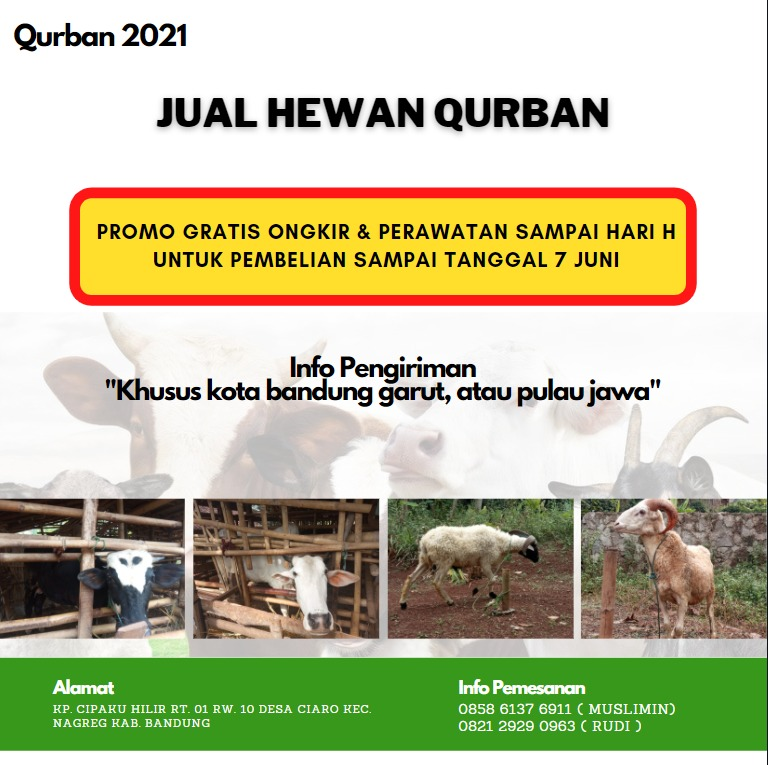
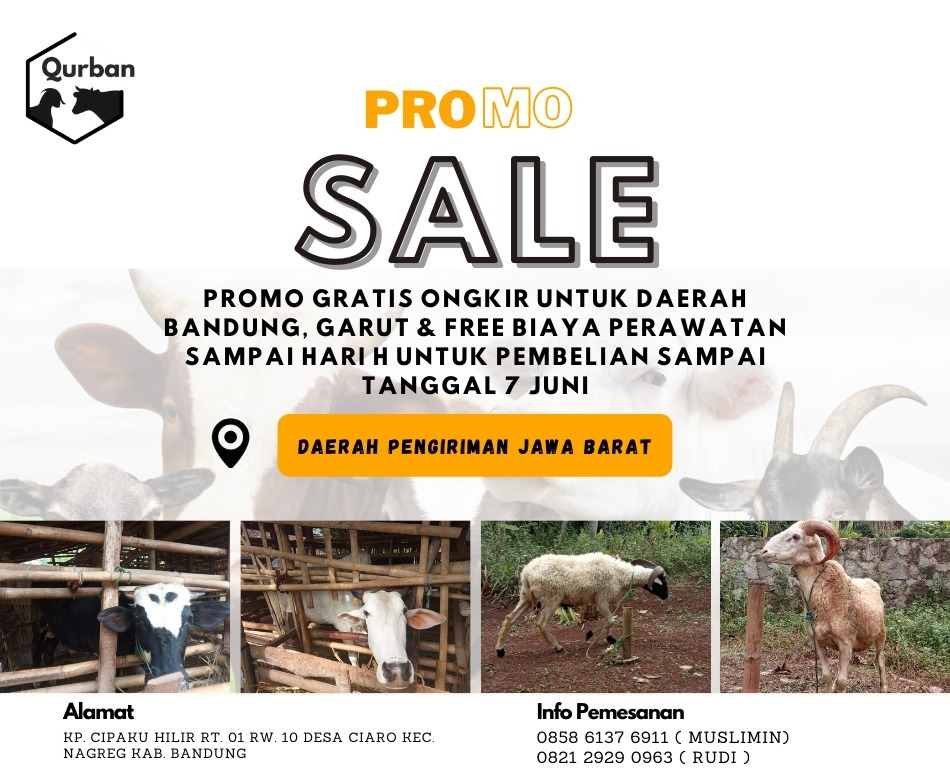
update discount and contact

diff --git a/index.html b/index.html
@@ -241,9 +241,8 @@
                                             <i class="lni-phone-handset"></i>
                                         </div>
                                         <div class="info-content">
-                                            <p>+6282129290963 (RUDI)</p>
-                                            <p>+6282129290963 (MUSLIMIN)</p>
-                                            <p>+6282129290963 (NURJAMAN)</p>
+                                            <p>+6282129290963 (RUDI) <a href="https://wa.link/qv3m8k" target="_blank">Langsung Tanya</a></p>
+                                            <p>+6281224744705 (NURJAMAN) <a href="https://wa.link/31zbiw" target="_blank">Langsung Tanya</a></p>
                                         </div>
                                     </div> <!-- single info -->
                                 </li>
